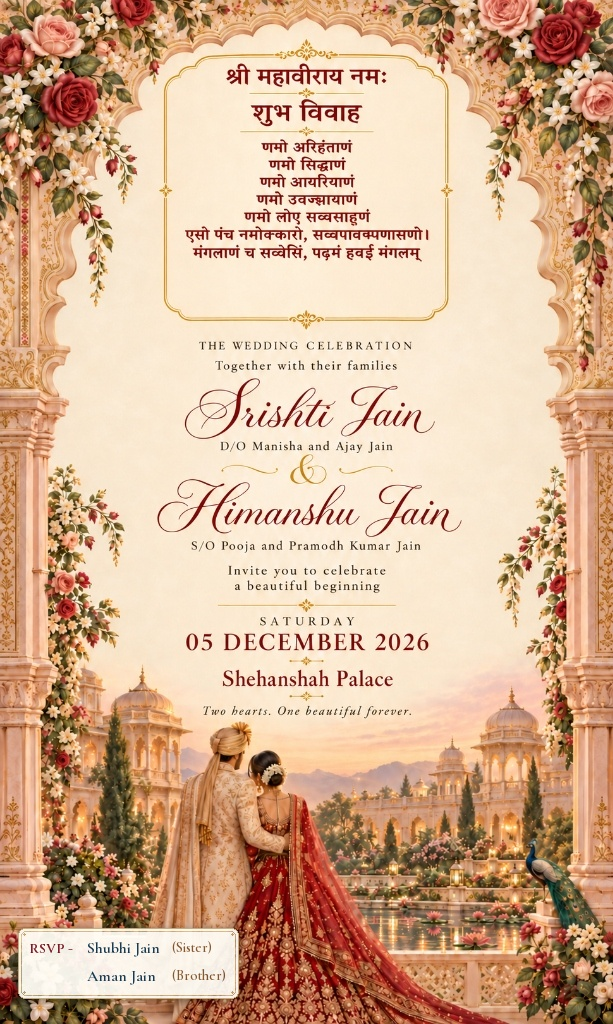
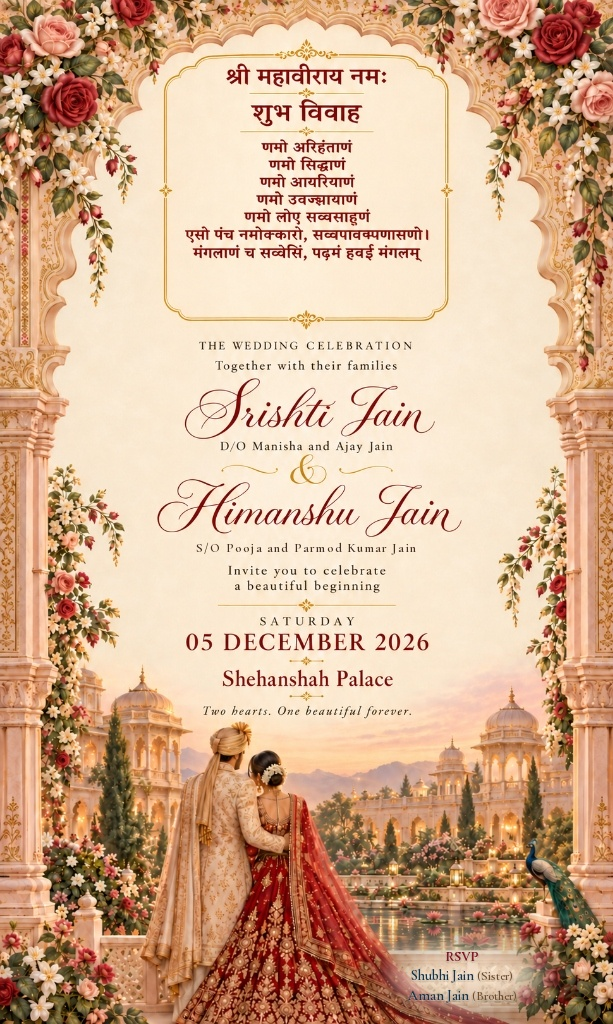
Update groom parent name to Parmod and blend RSVP into card right corner

Changed region(s): [[0.0, 0.9062, 0.4029, 1.0], [0.6199, 0.9062, 0.9299, 1.0], [0.31, 0.5312, 0.6819, 0.5625]]

diff --git a/index.html b/index.html
@@ -219,7 +219,7 @@
               <div class="family-divider" aria-hidden="true">✦</div>
               <div class="family-column">
                 <span class="family-name">Himanshu Jain</span>
-                <span class="family-parentage">S/O Pooja and Pramodh Kumar Jain</span>
+                <span class="family-parentage">S/O Pooja and Parmod Kumar Jain</span>
               </div>
             </div>
 
@@ -602,7 +602,7 @@
           <div class="card-display-envelope reveal-animated-content" role="region" aria-label="Wedding Invitation Card Keepsake">
             <div id="card-preview-wrap" class="card-art-frame" role="button" tabindex="0" aria-label="Tap to inspect full invitation card in high resolution">
               <img id="card-preview-img"
-                   src="assets/images/invitation_card.png?v=5.0"
+                   src="assets/images/invitation_card.png?v=5.1"
                    alt="Srishti Jain &amp; Himanshu Jain Wedding Invitation Keepsake Card with RSVP Shubhi Jain (Sister) and Aman Jain (Brother)"
                    class="keepsake-card-image"
                    width="613"
@@ -635,7 +635,7 @@
       <div class="lightbox-overlay" id="lightbox-close-overlay"></div>
       <div class="lightbox-content">
         <button id="lightbox-close-btn" class="lightbox-close-btn" type="button" aria-label="Close enlarged card view">&times;</button>
-        <img id="lightbox-img" src="assets/images/invitation_card.png?v=5.0" alt="Enlarged Srishti &amp; Himanshu Wedding Invitation Card with RSVP Shubhi Jain (Sister) and Aman Jain (Brother)" class="lightbox-card-image">
+        <img id="lightbox-img" src="assets/images/invitation_card.png?v=5.1" alt="Enlarged Srishti &amp; Himanshu Wedding Invitation Card with RSVP Shubhi Jain (Sister) and Aman Jain (Brother)" class="lightbox-card-image">
       </div>
     </div>
 

diff --git a/js/config.js b/js/config.js
@@ -43,7 +43,7 @@ const WEDDING = Object.freeze({
   // ── Parents & Family details ───────────────────────────────────────────
   parents: {
     bride: 'D/O Manisha and Ajay Jain',
-    groom: 'S/O Pooja and Pramodh Kumar Jain',
+    groom: 'S/O Pooja and Parmod Kumar Jain',
   },
 
   // ── Site copy ──────────────────────────────────────────────────────────

diff --git a/js/card.js b/js/card.js
@@ -35,7 +35,7 @@
   // Background artwork — user uploaded master card with Shehanshah Palace & cursive calligraphy
   const bgImg  = new Image();
   bgImg.crossOrigin = 'anonymous';
-  bgImg.src    = 'assets/images/invitation_card.png?v=5.0';
+  bgImg.src    = 'assets/images/invitation_card.png?v=5.1';
   let bgLoaded = false;
 
   function renderCard() {

diff --git a/css/main.css b/css/main.css
@@ -2215,7 +2215,7 @@ button {
 .card-tap-hint {
   position: absolute;
   bottom: 12px;
-  right: 12px;
+  left: 12px;
   background: rgba(25, 59, 85, 0.85);
   color: #FFFFFF;
   font-family: var(--ff-display);
